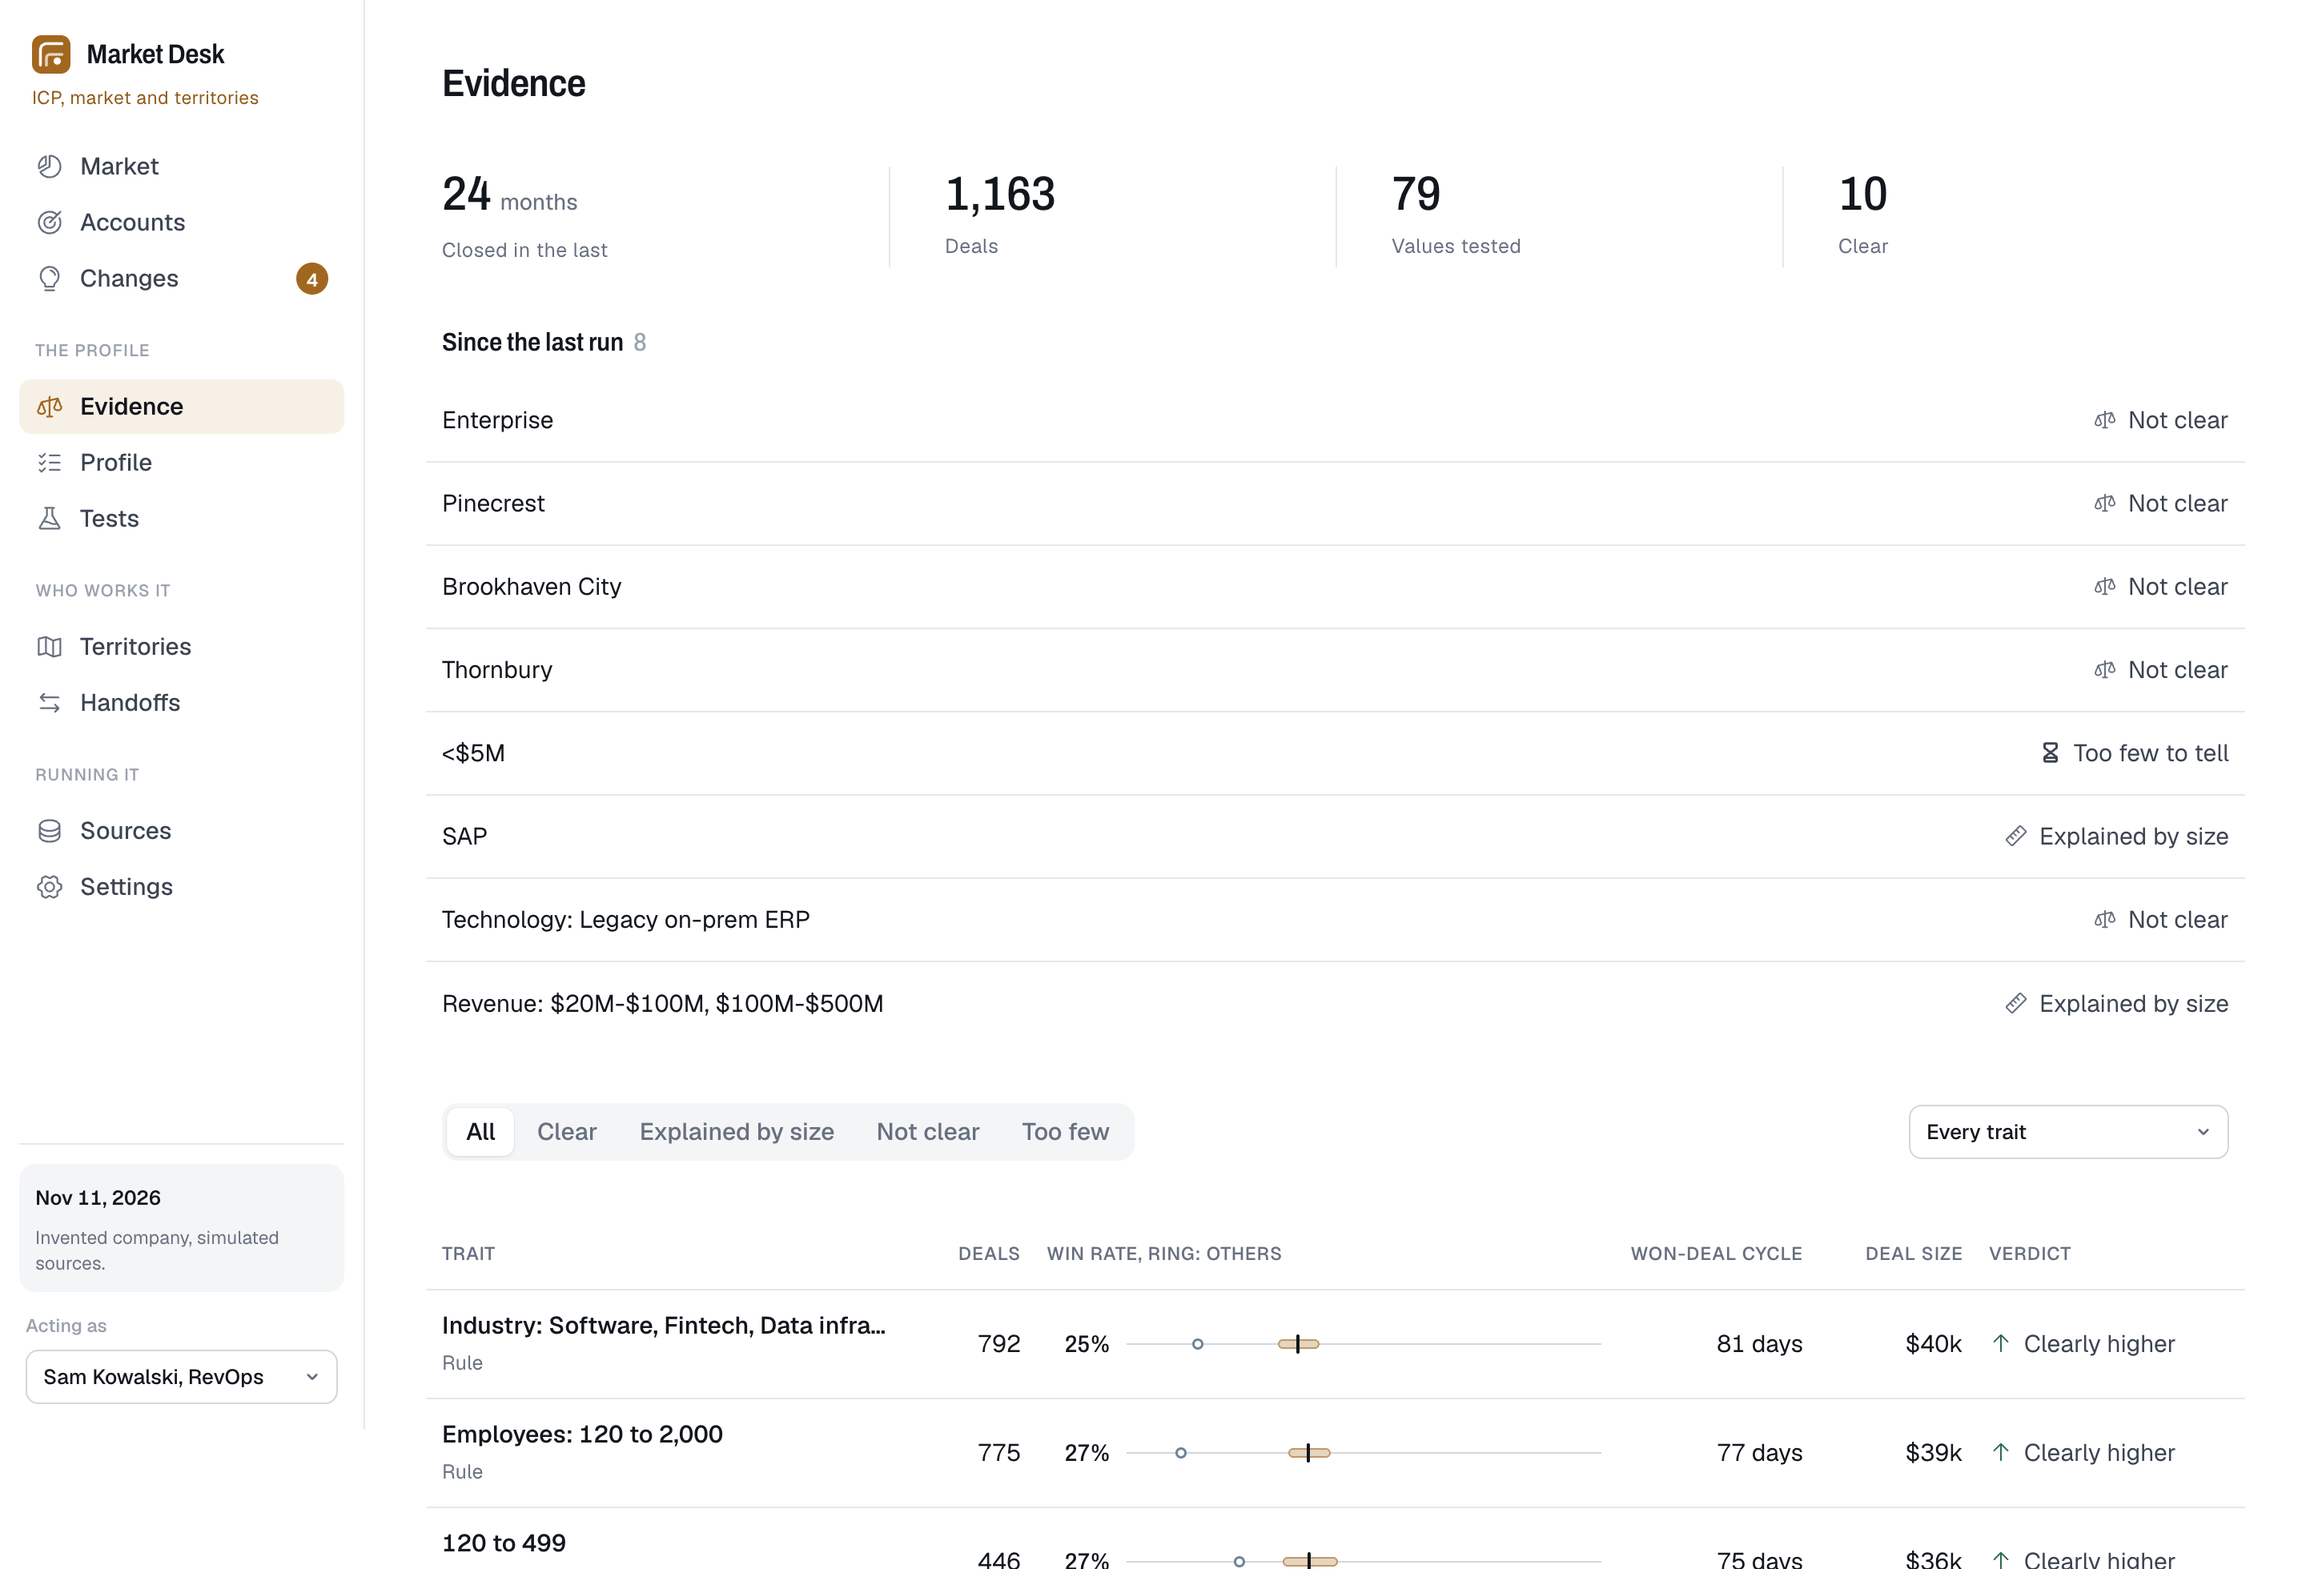
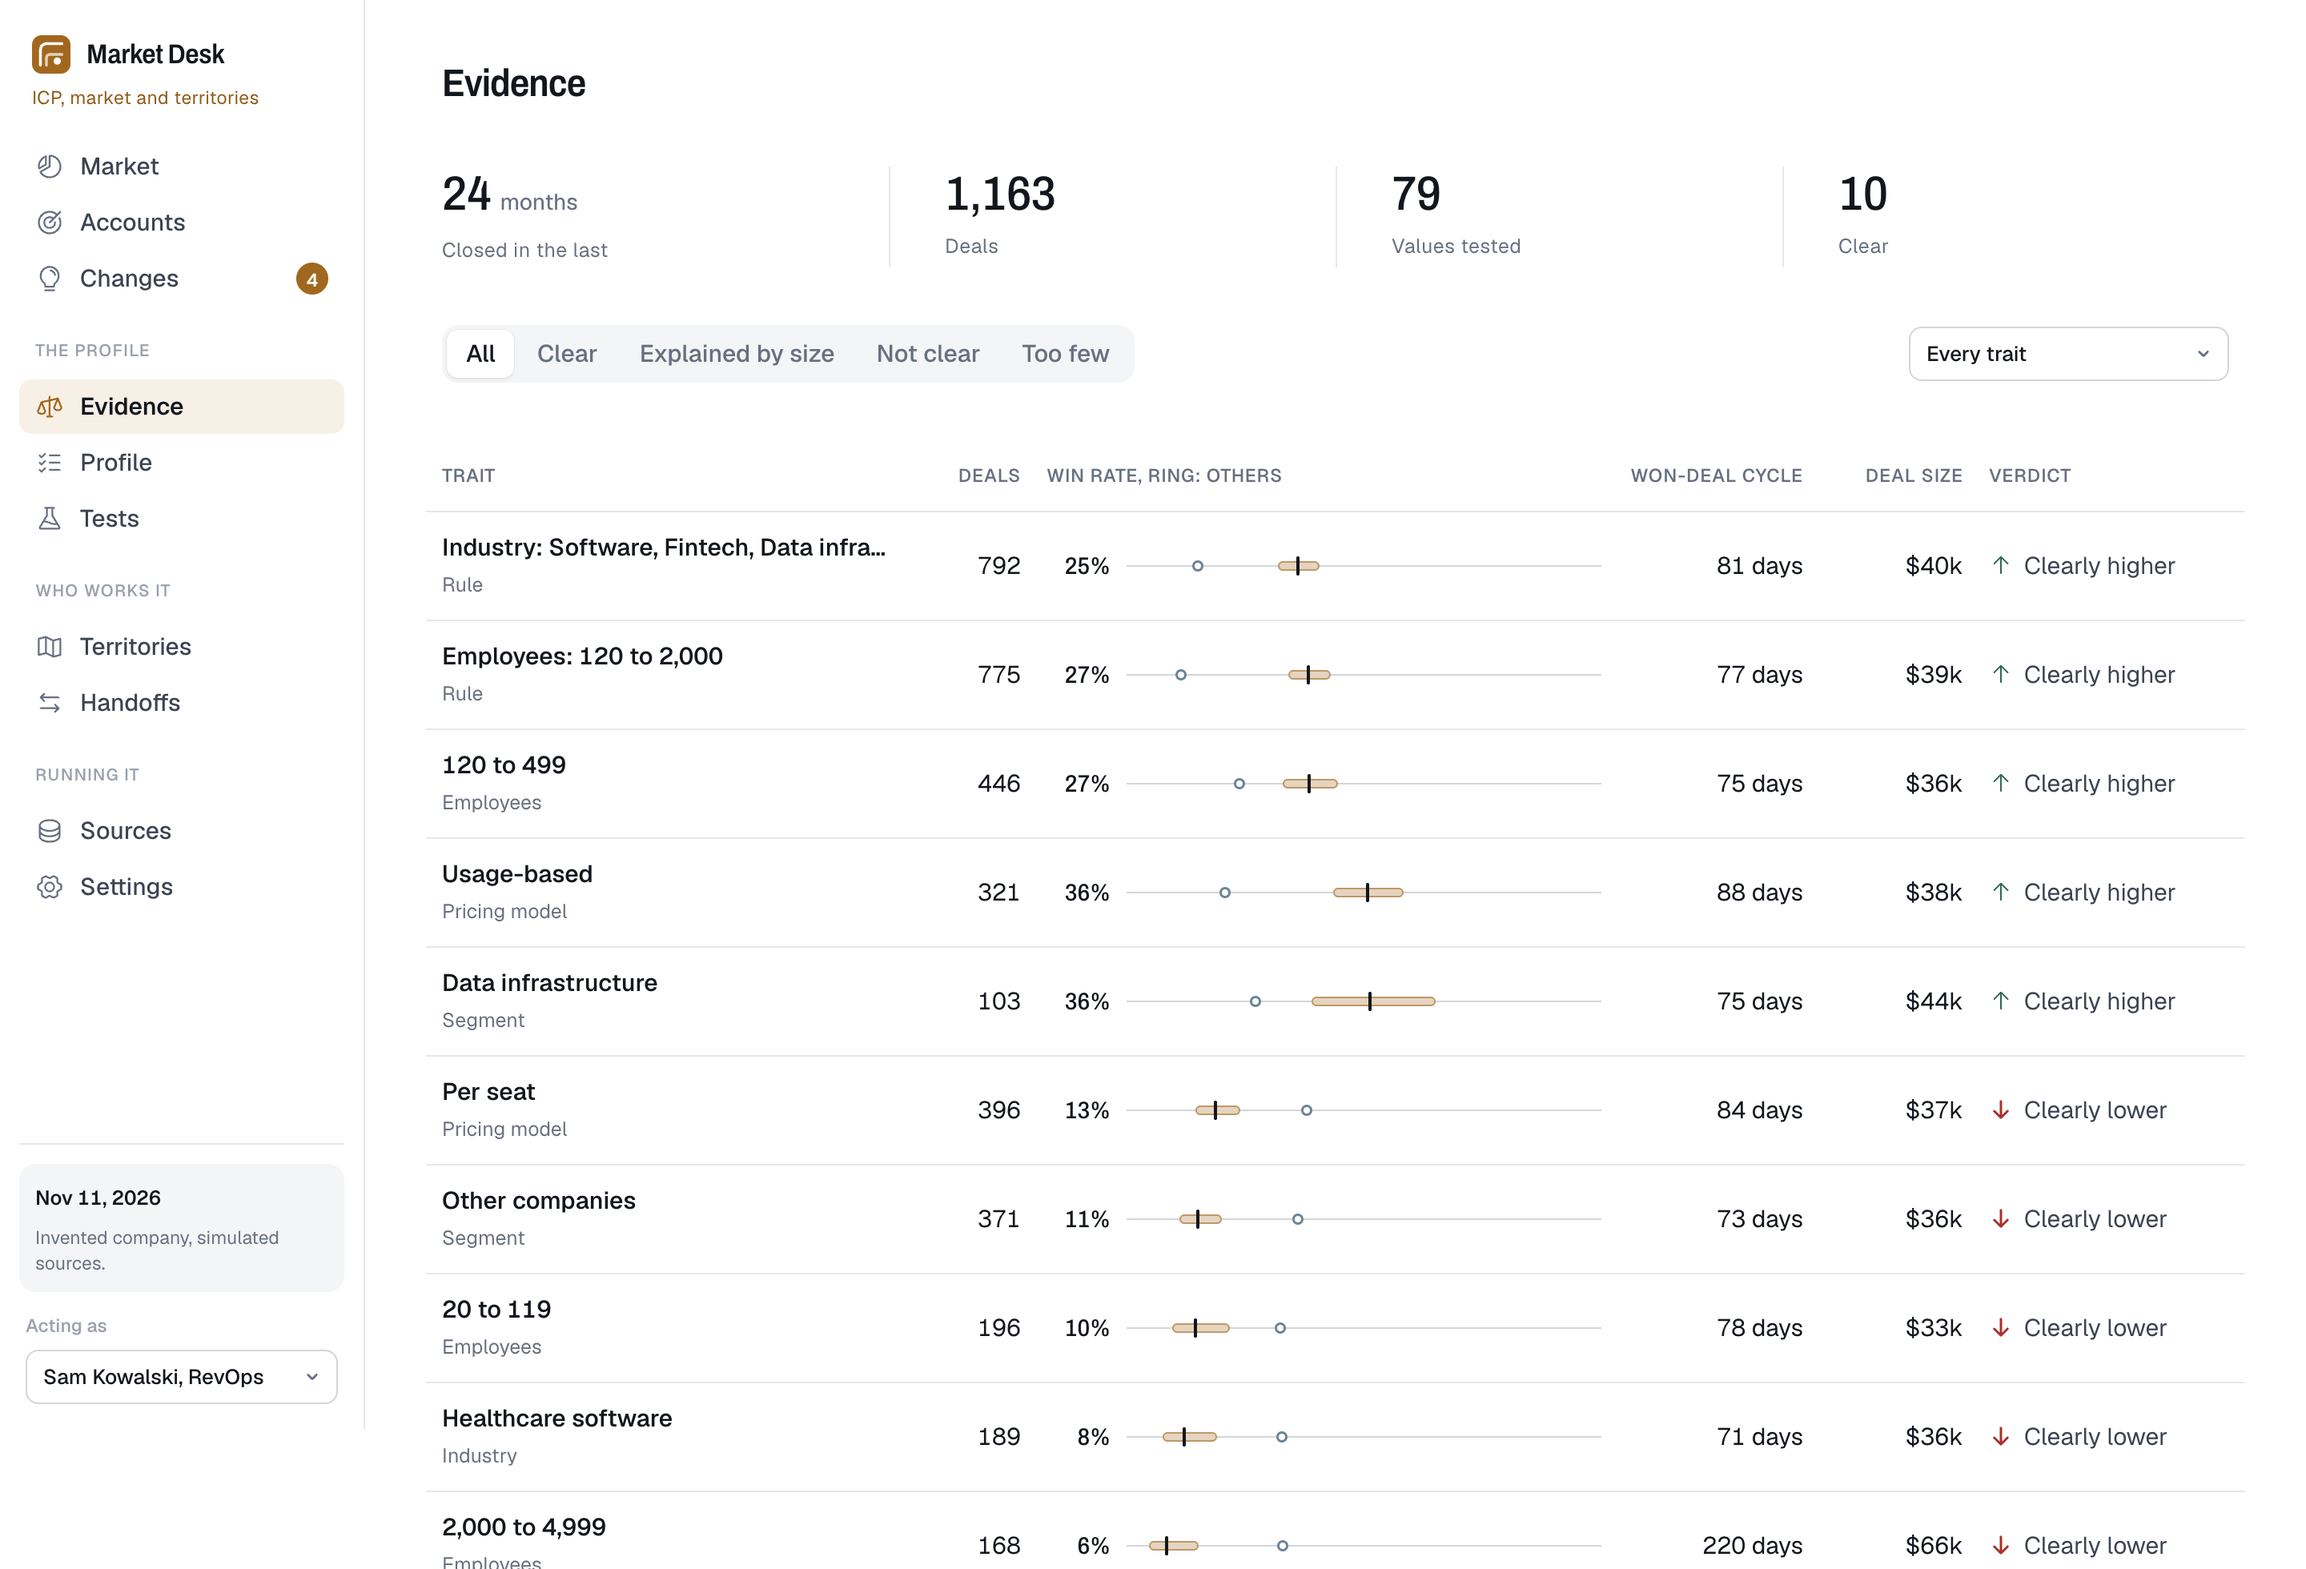
README: a product-page top with the mark, honest badges, a hero screenshot and the real-or-simulated note

diff --git a/README.md b/README.md
@@ -1,12 +1,35 @@
+<div align="center">
+
+<img src="docs/mark.svg" width="64" height="64" alt="Market Desk mark">
+
 # Market Desk
 
-**ICP, market and territories.**
+**Who a B2B team sells to, decided from its own deals.**
 
 [![ci](https://github.com/bryanacevedo/market-desk/actions/workflows/ci.yml/badge.svg)](https://github.com/bryanacevedo/market-desk/actions/workflows/ci.yml)
+![tests](https://img.shields.io/badge/tests-53%20on%20Postgres%2018-2F6B4F)
+[![license](https://img.shields.io/badge/license-PolyForm%20Noncommercial-5E6A62)](LICENSE.md)
+[![live demo](https://img.shields.io/badge/live%20demo-Render-A2671F)](https://market-desk-3kou.onrender.com)
 
-Market Desk decides who a B2B team sells to. It learns the ideal customer profile from every deal won, lost and churned, with each rule's win rate, range and verdict; it sizes every segment as ranges, counting only buyers the team can reach and accounts it can actually work in a year; it tiers every company and gives it to someone with hours to work it; it hands that book to [Account Desk](https://github.com/bryanacevedo/account-desk) and Events Desk; and it proposes changes to the profile only when their results say it was wrong, for a manager to publish.
+[Live demo](https://market-desk-3kou.onrender.com) · [How it works](#what-it-does) · [Decisions](docs/DECISIONS.md)
 
-**[Try the live demo](https://market-desk-3kou.onrender.com).** Pick who you are acting as in the sidebar (RevOps, the sales manager, an SDR or an AE). The company, its market, its deals and its sources are invented and simulated. If it has been idle, Render takes up to a minute to wake it. Read "What is real and what is simulated" before trusting any number in it.
+<img src="docs/screens/market-desktop.png" alt="The Market page: segments as a field of tiles sized by reachable market, and each segment's TAM, SAM and SOM drawn as nested ranges" width="900">
+
+</div>
+
+> [!NOTE]
+> **What is real and what is simulated.** The company (Lumen Ledger), its 18,005 companies, three years of deals, call notes, sources and the other desks' results are invented, built from a fixed seed. The statistics, the profile and fit formula, sizing, territories, the handoff files, the two-person rules and the AI checks are real code, tested on real Postgres. Eight relationships were planted in the data on purpose and the desk finds each with its own rules; [the full list](#what-is-real-and-what-is-simulated) says which.
+
+[The rules](#the-rules-it-is-built-on) · [What it does](#what-it-does) · [The other desks](#how-it-fits-with-the-other-two-desks) · [Shared world](#the-shared-world) · [Run it](#run-it) · [The AI, measured](#the-ai-measured) · [Real and simulated](#what-is-real-and-what-is-simulated) · [Not yet proven](#not-yet-proven) · [Words](#words-used-here)
+
+Market Desk learns the ideal customer profile from every deal won, lost and churned, with each rule's win rate, range and verdict; it sizes every segment as ranges, counting only buyers the team can reach and accounts it can actually work in a year; it tiers every company and gives it to someone with hours to work it; it hands that book to [Account Desk](https://github.com/bryanacevedo/account-desk) and [Events Desk](https://github.com/bryanacevedo/events-desk), the two desks that reach out to the accounts; and it proposes changes to the profile only when their results say it was wrong, for a manager to publish.
+
+Pick who you are acting as in the demo's sidebar (RevOps, the sales manager, an SDR or an AE). If it has been idle, Render takes up to a minute to wake it.
+
+<p align="center">
+<img src="docs/screens/evidence-desktop.png" alt="Evidence: each trait's win rate drawn as a range against the others, with a plain verdict" width="49%">
+<img src="docs/screens/territories-desktop.png" alt="Territories: each person's book against their hours" width="49%">
+</p>
 
 ## The rules it is built on
 
